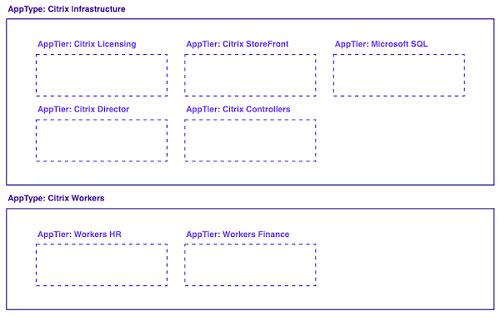
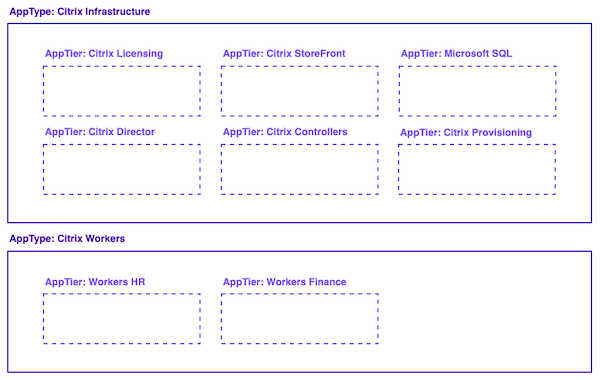
Started PVS Updates - Up to BP-05 Implementation

diff --git a/documentation/BP-2125-Securing Citrix Virtual Apps and Desktops with Nutanix Flow/BP-2125/bp-2125-04-design-concepts-for-flow-network-security.md b/documentation/BP-2125-Securing Citrix Virtual Apps and Desktops with Nutanix Flow/BP-2125/bp-2125-04-design-concepts-for-flow-network-security.md
@@ -46,6 +46,7 @@ The following list presents some typical components in a Citrix Virtual Apps and
   - AppTier: Microsoft SQL Server
   - AppTier: Citrix Director
   - AppTier: Citrix Controllers
+  - AppTier: Citrix Provisioning Services
 - AppType: Citrix Workers
   - AppTier: Workers HR
   - AppTier: Workers Finance
@@ -88,6 +89,13 @@ _Table. Example AppTier Port and Protocol Definitions_
 | Citrix Controllers | HTTP | 80 | UDP |
 | Citrix Controllers | HTTPS | 443 | TCP |
 | Citrix Controllers | HTTPS | 443 | UDP |
+| Citrix Provisioning Services | Target device to Citrix Provisioning communication | 6901 | UDP |
+| Citrix Provisioning Services | Target device to Citrix Provisioning communication | 6902 | UDP |
+| Citrix Provisioning Services | Target device to Citrix Provisioning communication | 6905 | UDP |
+| Citrix Provisioning Services | Virtual disk Streaming (Streaming Service) | 6910-6930 | UDP |
+| Citrix Provisioning Services | Only BDM: Two Stage Boot (BDM). Used in boot from ISO or USB scenarios only | 6969 | UDP |
+| Citrix Provisioning Services | Only BDM: Two Stage Boot (BDM). Used in boot from ISO or USB scenarios only | 2071 | UDP |
+| Citrix Provisioning Services | SOAP Service | 54321-54323 | TCP |
 | Citrix Workers | ICA | 1494 | TCP |
 | Citrix Workers | ICA | 1494 | UDP |
 | Citrix Workers | Session reliability | 2598 | TCP |
